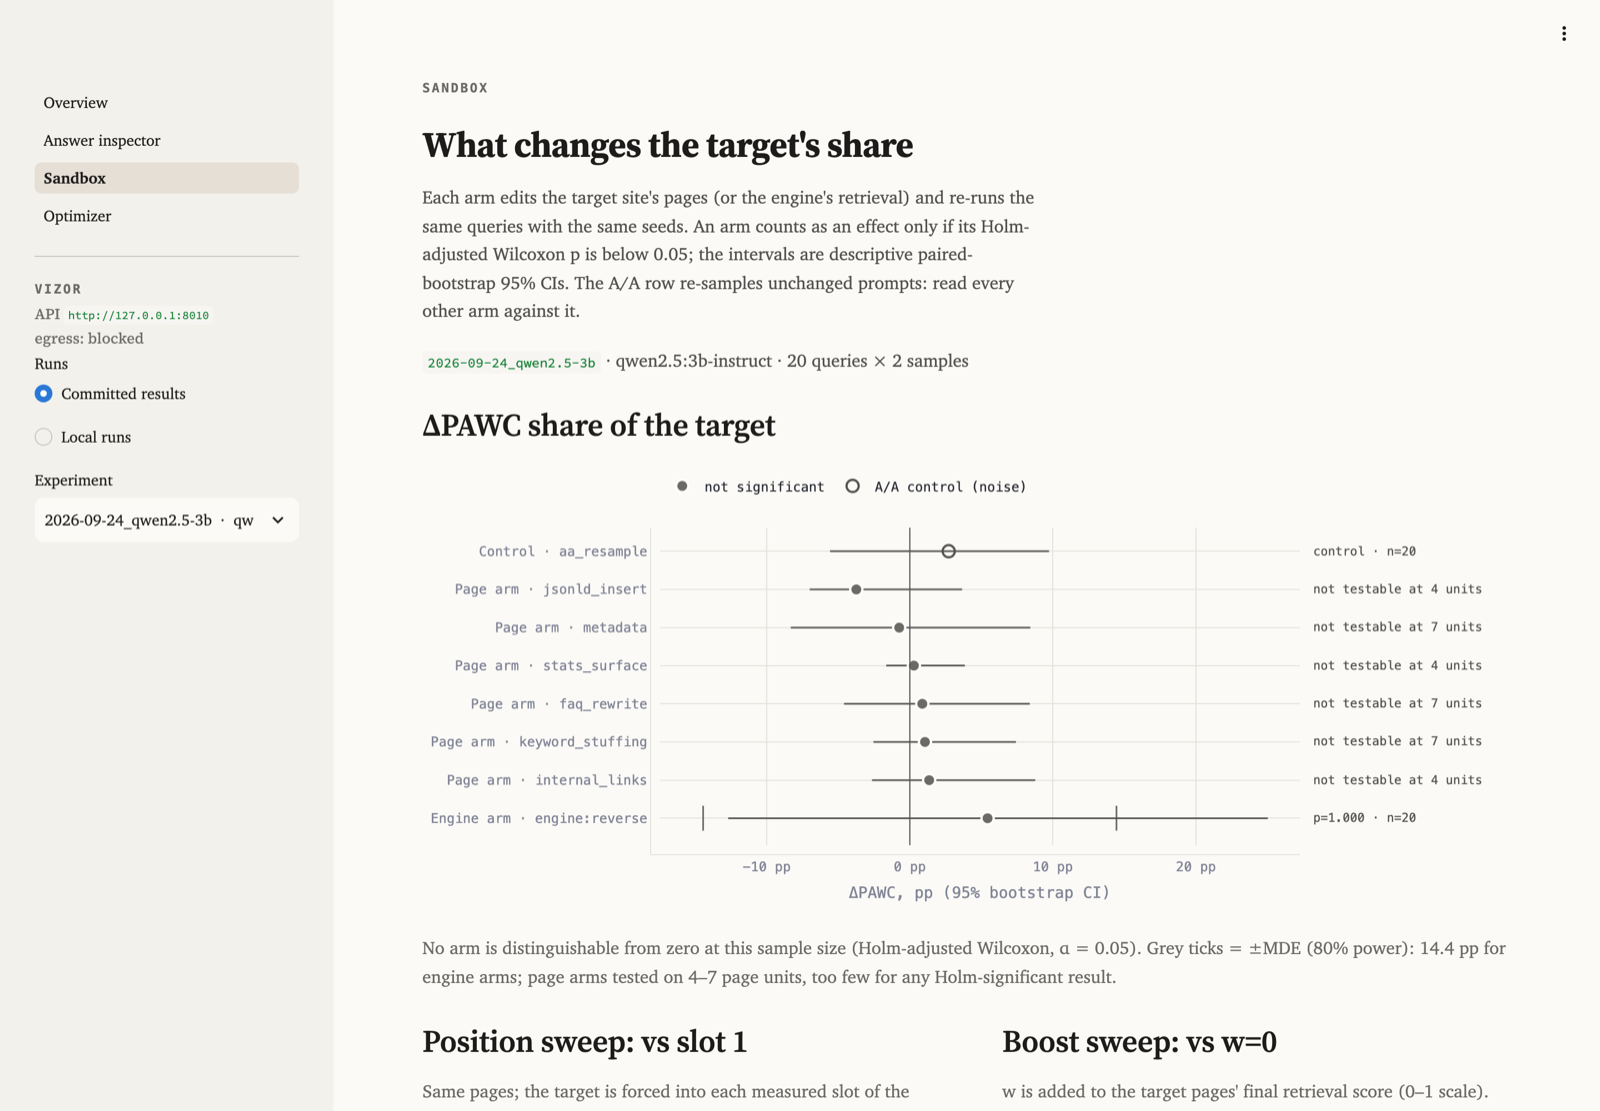
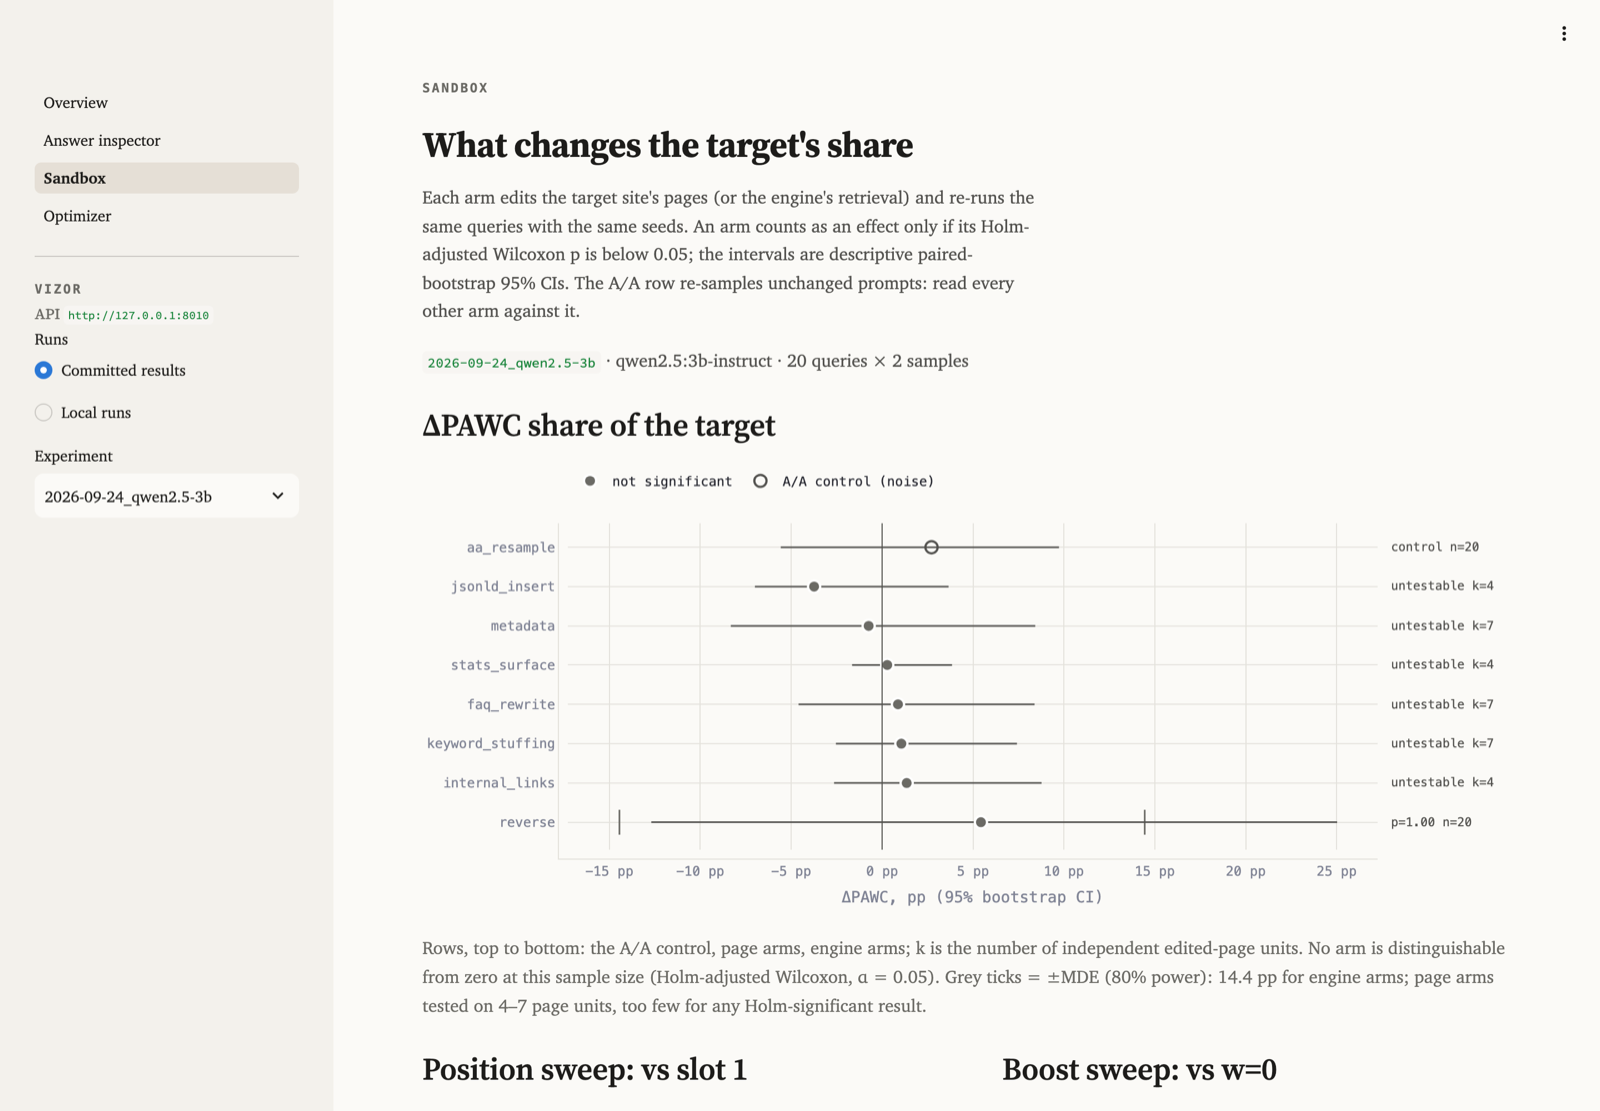
dashboard: white primary-button text, forest plot fits a phone, no mde ticks on untestable rows, short run labels

diff --git a/src/vizor/dashboard/app.py b/src/vizor/dashboard/app.py
@@ -37,6 +37,7 @@ CSS = f"""
 <style>
 :root {{ --ink:{INK}; --ink2:{INK_2}; --muted:{MUTED}; --rule:{RULE}; --paper:{PAPER}; --panel:{PANEL}; }}
 html, body, .stMarkdown, p, li, label, input, textarea {{ font-family:{FONT_BODY}; color:var(--ink); }}
+[data-testid^="stBaseButton-primary"] p {{ color:#fff !important; }}
 [data-testid="stIconMaterial"], .material-symbols-rounded {{ font-family:"Material Symbols Rounded" !important; }}
 h1, h2, h3 {{ font-family:{FONT_BODY}; letter-spacing:-0.01em; font-weight:600; }}
 h1 {{ font-size:2.0rem !important; margin-bottom:0.2rem; }}
@@ -182,7 +183,10 @@ def pick_experiment() -> dict | None:
     names = [g for g, v in groups.items() if v]
     group = st.sidebar.radio("Runs", names, horizontal=True) if len(names) > 1 else names[0]
     choices = sorted(groups[group], key=lambda e: (bool(e["is_fake_llm"]), e["id"]))
-    labels = [f"{e['id']}  ·  {'FakeLLM' if e['is_fake_llm'] else e['llm_model']}" for e in choices]
+    labels = [
+        e["id"] + (" (FakeLLM)" if e["is_fake_llm"] and "fakellm" not in e["id"].lower() else "")
+        for e in choices
+    ]
     i = st.sidebar.selectbox("Experiment", range(len(choices)), format_func=lambda k: labels[k])
     return choices[i]
 
@@ -491,7 +495,8 @@ def forest(d: pd.DataFrame, sens: dict, exp: dict) -> None:
     d = d.sort_values(
         by=["group", "d_pwc_pp"], key=lambda c: c.map(order) if c.name == "group" else c
     )
-    d["label"] = d.group + " · " + d.arm
+    # short row labels so the chart fits a phone; the group is in the hover and the row order
+    d["label"] = d.arm.str.replace("engine:", "", regex=False)
     labels = list(d.label)[::-1]  # plotly draws the first category at the bottom
     sig = d.get("significant", pd.Series(False, index=d.index)).fillna(False).astype(bool)
     st.markdown(f"### {titled('ΔPAWC share of the target', exp)}")
@@ -502,6 +507,8 @@ def forest(d: pd.DataFrame, sens: dict, exp: dict) -> None:
     for kind, key in (("engine", "engine_arm_pp"), ("doc", "page_arm_pp")):
         m = sens.get(key)
         rows = d[d.kind == kind]
+        units_col = rows["n_units"] if "n_units" in rows else rows["n_queries"]
+        rows = rows[[reachable(int(u), family) for u in units_col.fillna(rows.n_queries)]]
         if m and len(rows):
             for sign in (-1, 1):
                 fig.add_scatter(
@@ -540,18 +547,18 @@ def forest(d: pd.DataFrame, sens: dict, exp: dict) -> None:
                 thickness=1.5,
                 width=0,
             ),
-            customdata=rows[["d_pwc_lo", "d_pwc_hi", "p_holm", "n_queries"]].to_numpy(),
-            hovertemplate="%{y}<br>Δ %{x:+.2f} pp [%{customdata[0]:+.2f}, %{customdata[1]:+.2f}]"
+            customdata=rows[["d_pwc_lo", "d_pwc_hi", "p_holm", "n_queries", "group"]].to_numpy(),
+            hovertemplate="%{customdata[4]} · %{y}<br>Δ %{x:+.2f} pp [%{customdata[0]:+.2f}, %{customdata[1]:+.2f}]"
             "<br>Holm p %{customdata[2]:.3f} · n=%{customdata[3]}<extra></extra>",
         )
     for x in d.itertuples():
         units = int(getattr(x, "n_units", x.n_queries) or x.n_queries)
         if x.kind == "aa":
-            txt = f"control · n={int(x.n_queries)}"
+            txt = f"control n={int(x.n_queries)}"
         elif x.kind == "doc" and not reachable(units, family):
-            txt = f"not testable at {units} units"
+            txt = f"untestable k={units}"
         else:
-            txt = f"p={x.p_holm:.3f}{' *' if bool(getattr(x, 'significant', False)) else ''} · n={int(x.n_queries)}"
+            txt = f"p={x.p_holm:.2f}{'*' if bool(getattr(x, 'significant', False)) else ''} n={int(x.n_queries)}"
             if x.kind == "doc":
                 txt += f"/{units}"
         fig.add_annotation(
@@ -566,13 +573,17 @@ def forest(d: pd.DataFrame, sens: dict, exp: dict) -> None:
         )
     fig.update_yaxes(categoryorder="array", categoryarray=labels)
     fig.update_xaxes(ticksuffix=" pp", title="ΔPAWC, pp (95% bootstrap CI)")
-    fig.update_layout(margin=dict(r=190), legend=dict(y=1.08))
+    fig.update_layout(margin=dict(r=120, l=4), legend=dict(y=1.08))
     st.plotly_chart(fig, use_container_width=True, config={"displayModeBar": False})
     tested = d[d.kind != "aa"]
     msg = (
         "No arm is distinguishable from zero at this sample size (Holm-adjusted Wilcoxon, α = 0.05)."
         if not sig.any()
         else f"{int(sig.sum())} arm(s) pass the Holm rule, marked ◆ and *."
+    )
+    msg = (
+        "Rows, top to bottom: the A/A control, page arms, engine arms; k is the number of "
+        "independent edited-page units. " + msg
     )
     extra = []
     if sens.get("engine_arm_pp"):
